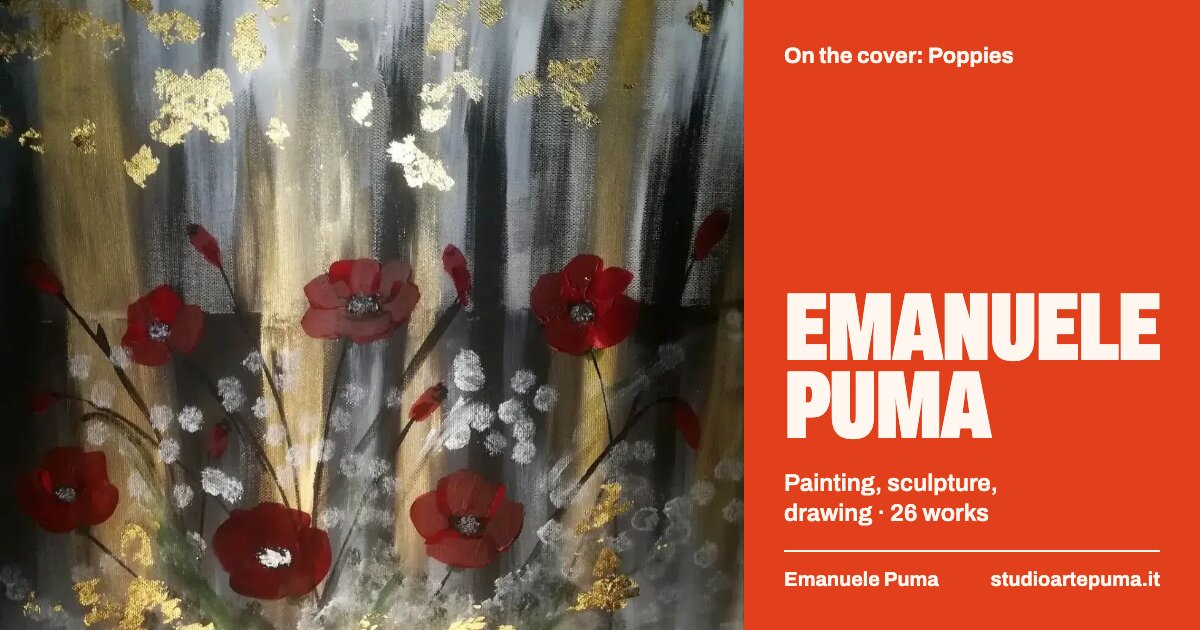
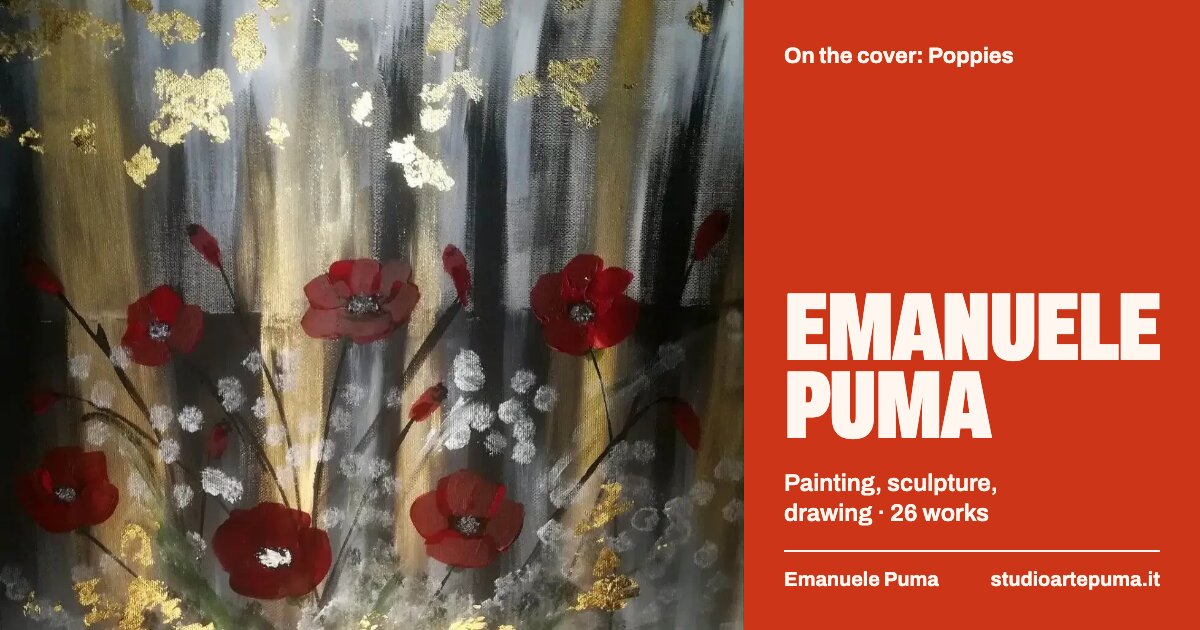
Lift Lighthouse: paint the LCP image at once, fix contrast and keyboard focus
Performance: the opening image is no longer clipped until GSAP runs; a
curtain pseudo-element in the poster's colour slides off it instead, so
the LCP is painted as soon as it loads (render delay 6.1 s -> 0.7 s).
The artwork page marks its image fetchpriority=high, the wall srcset gains
a 600 step and the cover a 750 step, GSAP is only loaded by the pages that
animate (the ScrollTrigger refresh moved from a plugin into useMotion),
edge.svg is bundled from app/assets, and Nitro ships precompressed assets.

Accessibility: --red darkens to #cc3517 so small text on the cover band
reaches 4.8:1 (the credit also drops its opacity), tabbing onto a sheet
the walk has not reached scrolls the page so it comes into view, and the
"07/26" counter gets a screen-reader-only "Opera 7 di 26" instead of an
aria-label on a <p>.

Also adds app/error.vue (translated 404 with lang, noindex and a way
home) and re-renders the home share images with the new red.

diff --git a/app/pages/index.vue b/app/pages/index.vue
@@ -45,16 +45,17 @@ onMounted(() => {
 const root = ref<HTMLElement>()
 useMotion(root, (mm, el) => {
   mm.add(MOTION_OK, () => {
-    pasteIn(el.querySelector('.bill-art')!, el.querySelector('.bill-name')!)
+    pasteIn(el.querySelector('.bill')!, el.querySelector('.bill-name')!)
 
     // Each stage is a wall: vertical scroll walks along it, then the next poster is pasted over it.
     const walk = el.querySelector<HTMLElement>('#percorso')!
     walk.classList.add('is-walk')
+    const offs: (() => void)[] = []
     for (const stage of walk.querySelectorAll<HTMLElement>('.stage')) {
       const wall = stage.querySelector<HTMLElement>('.wall')!
       const track = wall.querySelector<HTMLElement>('.sheets')!
       const dist = () => Math.max(0, track.scrollWidth - wall.clientWidth)
-      gsap.to(track, {
+      const tween = gsap.to(track, {
         x: () => -dist(),
         ease: 'none',
         scrollTrigger: {
@@ -66,19 +67,34 @@ useMotion(root, (mm, el) => {
           onRefreshInit: () => stage.style.setProperty('--walk', `${dist()}px`),
         },
       })
+      // Tab onto a sheet the walk has not reached: the wall is clipped, so move the page instead.
+      // Scroll and x run 1:1, so the sheet's place on the track is the scroll offset that centres it.
+      const onFocus = (e: FocusEvent) => {
+        const sheet = (e.target as HTMLElement).closest<HTMLElement>('.sheet')
+        if (!sheet) return
+        const r = sheet.getBoundingClientRect(), wr = wall.getBoundingClientRect()
+        if (r.left >= wr.left && r.right <= wr.right) return
+        const x = sheet.offsetLeft - track.offsetLeft - (wall.clientWidth - sheet.offsetWidth) / 2
+        window.scrollTo({ top: tween.scrollTrigger!.start + Math.min(dist(), Math.max(0, x)), behavior: 'instant' })
+      }
+      wall.addEventListener('focusin', onFocus)
+      offs.push(() => wall.removeEventListener('focusin', onFocus))
     }
-    return () => walk.classList.remove('is-walk')
+    return () => {
+      walk.classList.remove('is-walk')
+      offs.forEach(off => off())
+    }
   })
 })
 </script>
 
 <template>
   <div ref="root">
-    <section class="bill" aria-labelledby="name">
+    <section class="bill intro-poster" aria-labelledby="name">
       <img
         class="bill-art intro-art"
         :src="img(cover.image, 1200)"
-        :srcset="srcset(cover.image, [600, 900, 1200, 1800])"
+        :srcset="srcset(cover.image, [600, 750, 900, 1200, 1800])"
         sizes="(min-width: 900px) 62vw, 100vw"
         :width="cover.px[0]"
         :height="cover.px[1]"
@@ -126,7 +142,7 @@ useMotion(root, (mm, el) => {
                 <NuxtLink :to="localePath(`/opere/${w.slug}`)" class="sheet-link">
                   <img
                     :src="img(w.image, 800)"
-                    :srcset="srcset(w.image, [400, 800, 1200])"
+                    :srcset="srcset(w.image, [400, 600, 800, 1200])"
                     sizes="(min-width: 900px) 40vw, 80vw"
                     :width="w.px[0]"
                     :height="w.px[1]"
@@ -199,7 +215,7 @@ useMotion(root, (mm, el) => {
 }
 
 .bill-line { margin: 0.4rem 0 0; font-weight: 600; font-size: 1.05rem; }
-.bill-credit { margin: 0; font-size: 0.8rem; opacity: 0.85; }
+.bill-credit { margin: 0; font-size: 0.8rem; }
 
 /* Same breakpoint as the walls: a phone on its side gets the cover beside the band. */
 @media (min-width: 900px), (orientation: landscape) and (max-height: 520px) {

diff --git a/app/assets/main.css b/app/assets/main.css
@@ -5,7 +5,7 @@
   --ink-2: #4a4843;
   /* Stage inks: never two on screen at once. */
   /* Red belongs to the cover bill; painting gets sap green so the first wall breaks from it. */
-  --red: #e2401c;
+  --red: #cc3517;
   --green: #3f6b1f;
   --blue: #1f3fbf;
   --yellow: #f2b705;
@@ -59,9 +59,30 @@ a { color: inherit; text-underline-offset: 0.2em; text-decoration-thickness: 1px
 
 :focus-visible { outline: 3px solid currentColor; outline-offset: 3px; }
 
-/* Page openings (pasteIn in utils/motion.ts): hidden before first paint only when motion will reveal them. */
-.js .intro-art { clip-path: inset(0 0 100% 0); }
+/* Page openings (pasteIn in utils/motion.ts), only when motion will reveal them.
+   The image is never hidden (it is the page's LCP): a curtain in the poster's own colour sits over its
+   grid cell and pasteIn slides it off by driving --paste from 0% to 100%. */
+.intro-art { grid-area: 1 / 1; }
+.js .intro-poster { --paste: 0%; }
+.js .intro-poster::before {
+  content: '';
+  grid-area: 1 / 1;
+  z-index: 1;
+  background: inherit;
+  clip-path: inset(var(--paste) 0 0 0);
+  pointer-events: none;
+}
 .js .intro-heading { visibility: hidden; }
+
+/* Read by screen readers only. */
+.sr-only {
+  position: absolute;
+  width: 1px;
+  height: 1px;
+  overflow: hidden;
+  clip-path: inset(50%);
+  white-space: nowrap;
+}
 
 /* Stage inks: a stage's poster colour and the text printed on it. */
 .ink-black { --stage-ink: var(--ink); --on-stage: var(--on-black); }
@@ -85,13 +106,13 @@ a { color: inherit; text-underline-offset: 0.2em; text-decoration-thickness: 1px
   top: -36px;
   height: 37px;
   background: var(--paper-white);
-  mask: url('/edge.svg') repeat-x calc(var(--torn-x, 0px) + 41px) 0 / 760px 100%;
+  mask: url('./edge.svg') repeat-x calc(var(--torn-x, 0px) + 41px) 0 / 760px 100%;
 }
 .torn::after {
   top: -30px;
   height: 31px;
   background: var(--torn-ink, var(--ink));
-  mask: url('/edge.svg') repeat-x var(--torn-x, 0px) 0 / 900px 100%;
+  mask: url('./edge.svg') repeat-x var(--torn-x, 0px) 0 / 900px 100%;
 }
 
 ::view-transition-group(*) { animation-duration: 0.55s; animation-timing-function: var(--ease-out); }

diff --git a/app/utils/motion.ts b/app/utils/motion.ts
@@ -11,20 +11,26 @@ export const MOTION_OK = '(prefers-reduced-motion: no-preference)'
 /** Runs `setup` after mount inside a gsap.matchMedia scoped to `root`; reverts everything on unmount. */
 export function useMotion(root: Ref<HTMLElement | undefined>, setup: (mm: gsap.MatchMedia, el: HTMLElement) => void) {
   let mm: gsap.MatchMedia | undefined
+  // The walk is measured from the layout; re-measure once the page has fully arrived.
+  const offFinish = useNuxtApp().hook('page:finish', () => ScrollTrigger.refresh())
   onMounted(() => {
     if (!root.value) return
     mm = gsap.matchMedia(root.value)
     setup(mm, root.value)
   })
-  onBeforeUnmount(() => mm?.revert())
+  onBeforeUnmount(() => {
+    offFinish()
+    mm?.revert()
+  })
 }
 
 /**
  * Opening of a page poster: the image is pasted on from the top, then the heading rises line by line.
- * Pair with the `intro-art` / `intro-heading` classes, which main.css hides before first paint.
+ * `poster` carries the `intro-poster` class (main.css draws its curtain over the `intro-art` image and
+ * hides the `intro-heading` before first paint); --paste slides the curtain off.
  */
-export function pasteIn(art: Element, heading: Element) {
-  gsap.to(art, { clipPath: 'inset(0% 0 0% 0)', duration: 1.4, ease: 'expo.out' })
+export function pasteIn(poster: Element, heading: Element) {
+  gsap.fromTo(poster, { '--paste': '0%' }, { '--paste': '100%', duration: 1.4, ease: 'expo.out' })
   return SplitText.create(heading, {
     type: 'lines',
     mask: 'lines',

diff --git a/app/error.vue b/app/error.vue
@@ -1,0 +1,45 @@
+<script setup lang="ts">
+import type { NuxtError } from '#app'
+
+// The one page outside app.vue: it carries its own <html lang>, title and way back.
+const { error } = defineProps<{ error: NuxtError }>()
+const { t } = useI18n()
+const localePath = useLocalePath()
+const i18nHead = useLocaleHead({ seo: true })
+const title = error.statusCode === 404 ? t('error.title') : t('error.generic')
+
+useHead(() => ({ htmlAttrs: i18nHead.value.htmlAttrs }))
+useSeoMeta({ title, robots: 'noindex' })
+</script>
+
+<template>
+  <main id="main" class="oops">
+    <p class="oops-code">{{ error.statusCode }}</p>
+    <h1 class="oops-title">{{ title }}</h1>
+    <a :href="localePath('/')" class="oops-home" @click.prevent="clearError({ redirect: localePath('/') })">{{ t('error.home') }}</a>
+  </main>
+</template>
+
+<style scoped>
+.oops {
+  min-height: 100svh;
+  display: grid;
+  align-content: end;
+  gap: 0.5rem;
+  padding: var(--section) var(--gutter);
+  background: var(--ink);
+  color: var(--on-black);
+}
+.oops-code { margin: 0; font-weight: 700; }
+.oops-title {
+  margin: 0;
+  font-stretch: 62%;
+  font-weight: 900;
+  text-transform: uppercase;
+  letter-spacing: -0.02em;
+  line-height: 0.85;
+  font-size: clamp(3rem, 14vw, 10rem);
+  text-wrap: balance;
+}
+.oops-home { margin-top: 1.5rem; font-weight: 700; justify-self: start; }
+</style>

diff --git a/app/pages/opere/[slug].vue b/app/pages/opere/[slug].vue
@@ -101,6 +101,7 @@ onMounted(() => {
         :height="w.px[1]"
         :alt="artworkAlt(w, lang)"
         :style="{ viewTransitionName: `art-${w.slug}` }"
+        fetchpriority="high"
       >
     </figure>
 
@@ -112,7 +113,7 @@ onMounted(() => {
         <p v-if="caption" class="work-cap">{{ caption }}</p>
         <p v-if="w.copyOf" class="work-copy">{{ t('work.copyOf', { author: w.copyOf }) }}</p>
         <p v-if="text.note" class="work-note">{{ text.note }}</p>
-        <p class="work-n" :aria-label="t('work.n', { n: w.n, total })">{{ pad(w.n) }}/{{ total }}</p>
+        <p class="work-n"><span aria-hidden="true">{{ pad(w.n) }}/{{ total }}</span><span class="sr-only">{{ t('work.n', { n: w.n, total }) }}</span></p>
       </div>
 
       <figure v-if="scale" class="work-scale">

diff --git a/nuxt.config.ts b/nuxt.config.ts
@@ -31,7 +31,8 @@ export default defineNuxtConfig({
   // before any HTML is sent. Prerendered, the redirect would happen during hydration.
   routeRules: { '/': { prerender: false } },
   // Italian artwork pages are linked only from /, so they are listed here; /en links its own.
-  nitro: { prerender: { crawlLinks: true, routes: ['/en', '/chi-sono', '/robots.txt', ...artworks.map(a => `/opere/${a.slug}`)] } },
+  // Static assets ship with .br/.gz next to them, so the Node server never serves them uncompressed.
+  nitro: { compressPublicAssets: true, prerender: { crawlLinks: true, routes: ['/en', '/chi-sono', '/robots.txt', ...artworks.map(a => `/opere/${a.slug}`)] } },
   app: {
     head: {
       titleTemplate: '%s · Studio Arte Puma',

diff --git a/og/poster.html b/og/poster.html
@@ -7,7 +7,7 @@
 *{margin:0;box-sizing:border-box}
 html,body{width:1200px;height:630px;overflow:hidden;font-family:Archivo}
 body{display:grid;grid-template-columns:62fr 38fr;grid-template-rows:630px;background:var(--ink);color:var(--on)}
-.red{--ink:#e2401c;--on:#fff6ef}.green{--ink:#3f6b1f;--on:#f6f7ee}.blue{--ink:#1f3fbf;--on:#f3f5ff}
+.red{--ink:#cc3517;--on:#fff6ef}.green{--ink:#3f6b1f;--on:#f6f7ee}.blue{--ink:#1f3fbf;--on:#f3f5ff}
 .yellow{--ink:#f2b705;--on:#141414}.black{--ink:#141414;--on:#f4f3ef}
 .art{width:100%;height:630px;object-fit:cover;background:#f4f3ef}
 .contain{object-fit:contain;padding:36px}

diff --git a/app/pages/chi-sono.vue b/app/pages/chi-sono.vue
@@ -35,13 +35,13 @@ useHead(() => ({
 
 const root = ref<HTMLElement>()
 useMotion(root, (mm, el) => {
-  mm.add(MOTION_OK, () => { pasteIn(el.querySelector('.bill-art')!, el.querySelector('.bill-title')!) })
+  mm.add(MOTION_OK, () => { pasteIn(el.querySelector('.bill')!, el.querySelector('.bill-title')!) })
 })
 </script>
 
 <template>
   <div ref="root">
-    <section class="bill" aria-labelledby="title">
+    <section class="bill intro-poster" aria-labelledby="title">
       <img
         class="bill-art intro-art"
         :src="img(site.portrait, 1200)"

diff --git a/CLAUDE.md b/CLAUDE.md
@@ -16,9 +16,9 @@ app/
   pages/opere/[slug].vue  # opera singola: view transition dalla parete, righello in scala con A4
   pages/chi-sono.vue # ritratto + testo dell'artista + il percorso come strisce che si colorano al passaggio
   components/SiteClose.vue  # chiusura "Scrivimi." condivisa da tutte le pagine
-  plugins/motion.client.ts  # ScrollTrigger.refresh dopo ogni pagina
+  error.vue          # 404 e errori: titolo, link alla home, stessa testata
   utils/img.ts       # img/srcset per FileHarbor (?width=N)
-  utils/motion.ts    # useMotion, revealLines, magnetic (copiato dal portfolio)
+  utils/motion.ts    # useMotion (+ ScrollTrigger.refresh a page:finish), pasteIn
 og/                  # immagini di share: poster.html + render.sh → public/og/<locale>/…jpg (vedi og/README.md)
 scripts/upload-images.mjs  # carica su FileHarbor i path locali in app/data/*.ts e li sostituisce
 ```
@@ -28,7 +28,7 @@ scripts/upload-images.mjs  # carica su FileHarbor i path locali in app/data/*.ts
 - **Stile**: CSS scoped nei componenti + token da `main.css`. Mai colori hardcoded. Inchiostri delle tappe (`.ink-*`) e bordo strappato (`.torn`, `--torn-ink`) sono globali in `main.css`: non ridefinire `--stage-ink` in CSS scoped, vince sulla classe globale.
 - **Un inchiostro per schermo**: mai due tinte piene visibili insieme; dove una lista mostra più tappe, la tinta arriva solo su hover/focus.
 - **Motion**: sempre via `useMotion(root, (mm, el) => …)`, animazioni dentro `mm.add(MOTION_OK, …)`. Senza motion le pareti sono normali scroller orizzontali.
-- **Apertura delle pagine**: `pasteIn(img, heading)` di `utils/motion.ts` + classi `intro-art` / `intro-heading` (nascoste prima del paint in `main.css`). Ogni pagina con un manifesto in apertura la usa, così le aperture non divergono.
+- **Apertura delle pagine**: `pasteIn(poster, heading)` di `utils/motion.ts` + classi `intro-poster` (sulla sezione), `intro-art` / `intro-heading` (in `main.css`: tenda sull'immagine e titolo nascosto prima del paint; l'immagine resta dipinta, è l'LCP). Ogni pagina con un manifesto in apertura la usa, così le aperture non divergono.
 - **CSS scoped + `.js`**: scrivere `:global(.js .x)`, mai `:global(.js) .x`: Vue compila il secondo in `.js` e applica le regole a `<html>`.
 - **Direzione visiva**: "Manifesto d'affissione", contratto in `.impeccable/surfaces/app-pages-index-vue.md`. `PRODUCT.md` per il prodotto, `DESIGN.md` (+ `.impeccable/design.json`) per token e regole visive: leggerlo prima di toccare la UI.
 - **SEO**: ogni pagina chiama `useSeoMeta` con titolo e descrizione. URL assoluti da `useRuntimeConfig().public.siteUrl`. og:image = `/og/<locale>/<pagina>.jpg` precomposte: dopo aver aggiunto o modificato un'opera, `og/render.sh`.

diff --git a/.impeccable/surfaces/app-pages-index-vue.md b/.impeccable/surfaces/app-pages-index-vue.md
@@ -16,7 +16,7 @@ Vincoli utente: primo schermo = un'opera a tutto schermo; esplorazione in tappe;
 
 THESIS: Ogni tappa del percorso è un manifesto di mostra incollato a un muro d'affissione: l'opera stampata a piena pagina, il testo in inchiostro pieno. Rifiuta la parete bianca con griglia masonry e il nero da galleria.
 
-OWN-WORLD: Carta da affissione bianca fredda (#f4f3ef), nero tipografico (#141414), vermiglio #e2401c solo per la copertina, una sola tinta piena per tappa (verde vescica #3f6b1f pittura, cobalto #1f3fbf astratto, nero disegno, giallo #f2b705 scultura), mai due a schermo. Grottesco variabile Archivo, dal condensato pesante per il display al normale per il testo. Bordi di carta, sovrapposizioni di fogli incollati, numerazione 07/26. Nessun raggio, nessuna card, nessuna ombra morbida.
+OWN-WORLD: Carta da affissione bianca fredda (#f4f3ef), nero tipografico (#141414), vermiglio #cc3517 solo per la copertina, una sola tinta piena per tappa (verde vescica #3f6b1f pittura, cobalto #1f3fbf astratto, nero disegno, giallo #f2b705 scultura), mai due a schermo. Grottesco variabile Archivo, dal condensato pesante per il display al normale per il testo. Bordi di carta, sovrapposizioni di fogli incollati, numerazione 07/26. Nessun raggio, nessuna card, nessuna ombra morbida.
 
 STORY: Il visitatore vede subito un quadro grande, capisce che è di Emanuele Puma, scorre tappa per tappa vedendo crescere il percorso, apre un'opera per misure in scala e dettagli, esce verso Instagram o la mail.
 

diff --git a/DESIGN.md b/DESIGN.md
@@ -6,7 +6,7 @@ colors:
   paper-white: "#fdfcf9"
   ink: "#141414"
   ink-2: "#4a4843"
-  red: "#e2401c"
+  red: "#cc3517"
   green: "#3f6b1f"
   blue: "#1f3fbf"
   yellow: "#f2b705"
@@ -278,7 +278,7 @@ Il sistema è piatto: la profondità è solo carta incollata su carta. Un foglio
 
 ## Shapes
 
-Nessun raggio: ogni superficie è un foglio rettangolare a spigolo vivo (`rounded.none`). Le uniche forme irregolari sono gli strappi, generati da `public/edge.svg` (passeggiata casuale con seme, 1200×40) usato come maschera ripetuta in orizzontale. I filetti sono pieni da 2px in `ink` o `currentColor`; il focus è un outline da 3px in `currentColor` con 3px di offset.
+Nessun raggio: ogni superficie è un foglio rettangolare a spigolo vivo (`rounded.none`). Le uniche forme irregolari sono gli strappi, generati da `app/assets/edge.svg` (passeggiata casuale con seme, 1200×40) usato come maschera ripetuta in orizzontale. I filetti sono pieni da 2px in `ink` o `currentColor`; il focus è un outline da 3px in `currentColor` con 3px di offset.
 
 ## Components
 
